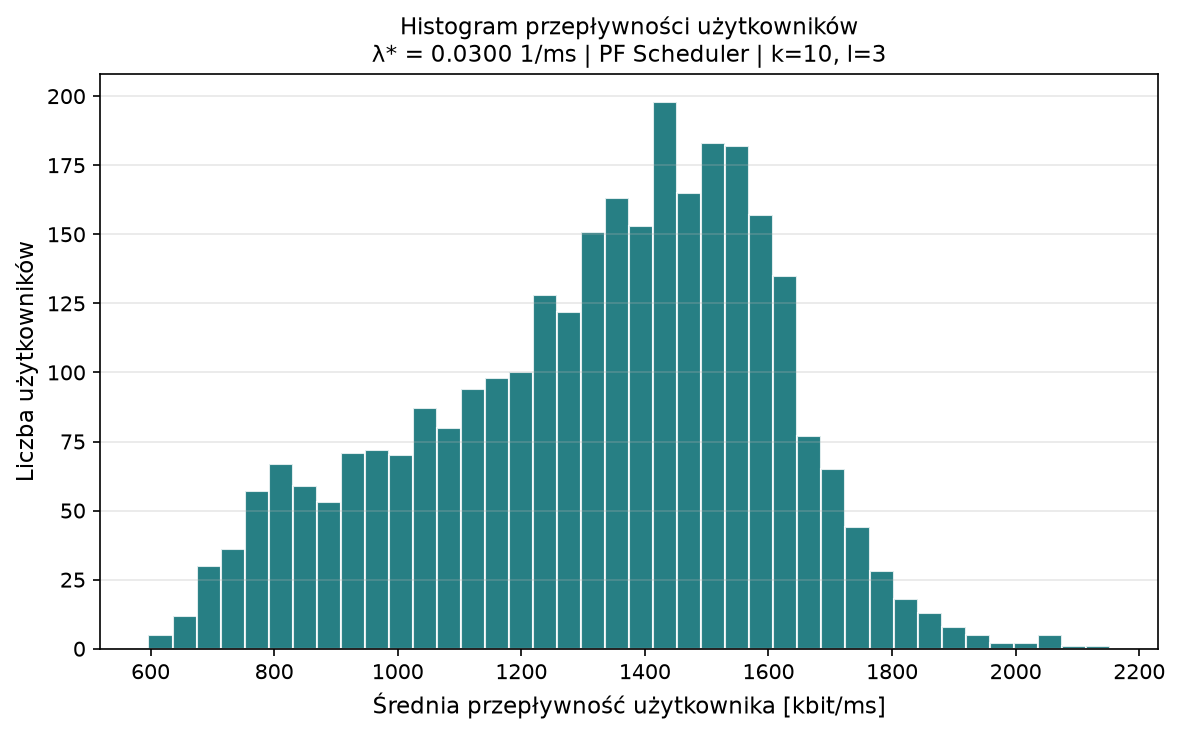
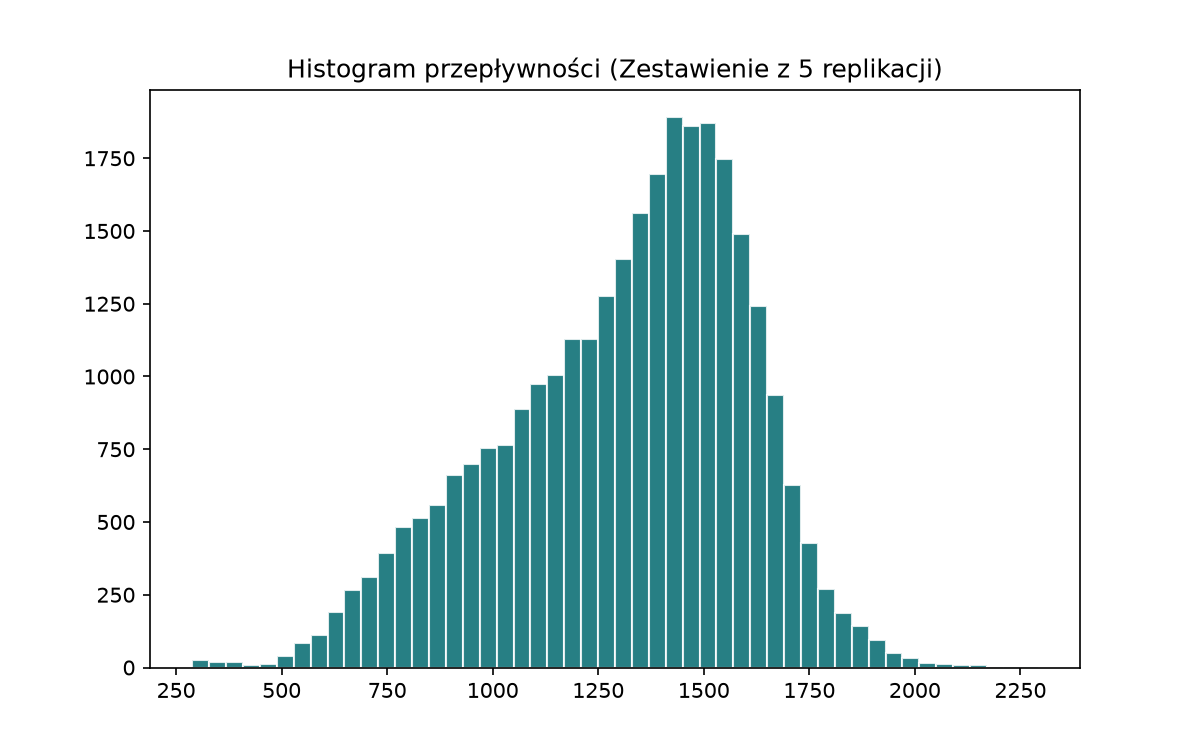
finished product

diff --git a/main.py b/main.py
@@ -1,108 +1,148 @@
 import os
-import random
+import math
 import matplotlib
 
 matplotlib.use("Agg")
 import matplotlib.pyplot as plt
 
-# Importujemy z naszych nowych modułów
 from simulator.main_loop import Simulator
 
-if __name__ == "__main__":
-    SIM_TIME = 100_000  # ms (100 s)
-    MAX_WAIT = 150.0  # ms – kryterium
+def compute_stats(data_list: list) -> tuple:
+    """Zwraca średnią oraz 95% przedział ufności dla listy wartości."""
+    if not data_list:
+        return 0.0, 0.0
+    n = len(data_list)
+    mean = sum(data_list) / n
+    if n <= 1:
+        return mean, 0.0
+    
+    variance = sum((x - mean) ** 2 for x in data_list) / (n - 1)
+    std_dev = math.sqrt(variance)
+    ci95 = 1.96 * (std_dev / math.sqrt(n))
+    return mean, ci95
 
-    # Zakres λ do badania
-    lambdas = [0.001, 0.005, 0.010, 0.020, 0.030, 0.050]
-               
+if __name__ == "__main__":
+    SIM_TIME = 200_000  # ms - zmiejszone na rzecz replikacji (zwiększ w miarę potrzeb)
+    MAX_WAIT = 150.0   # ms
+    REPLICATIONS = 5    # Liczba powtórzeń dla każdego punktu (do error barów)
+
+    lambdas = [0.001, 0.005, 0.010, 0.020, 0.030]
 
     results = []
-    sim = Simulator()
-
-    print(
-        f"{'λ [1/ms]':>10} | {'avg_wait [ms]':>14} | {'sys_tp [kbit/ms]':>17} | {'usr_tp [kbit/ms]':>17} | {'ukończeni':>10}")
-    print("-" * 85)
+    
+    print(f"{'λ [1/ms]':>10} | {'avg_wait [ms]':>14} ±CI | {'sys_tp [k/ms]':>14} ±CI | {'ukończeni (śr)':>14}")
+    print("-" * 80)
 
     for lam in lambdas:
-        # Zastąpienie np.random.seed standardowym
-        random.seed(1)
-        stats = sim.run(lam=lam, max_time=SIM_TIME)
-        results.append(stats)
+        wait_reps = []
+        sys_tp_reps = []
+        usr_tp_reps = []
+        completed_reps = []
+        all_user_tps_agg = [] # Do histogramu (łączymy z najlepszej lambdy)
 
-        # Wyświetlanie tabelaryczne z oznaczaniem wartości spełniających warunek
-        marker = " ✔" if stats["avg_wait_ms"] <= MAX_WAIT and stats["avg_wait_ms"] > 0 else ""
-        print(f"{lam:10.4f} | {stats['avg_wait_ms']:14.2f} | "
-              f"{stats['system_tp_kbps']:17.4f} | "
-              f"{stats['avg_user_tp_kbps']:17.4f} | "
-              f"{stats['num_completed']:10d}{marker}")
+        for rep in range(REPLICATIONS):
+            # Dynamiczne, unikalne ziarno dla każdej replikacji
+            seed = 2137 + int(lam * 1000) + rep * 13 
+            sim = Simulator(seed)
+            stats = sim.run(lam=lam, max_time=SIM_TIME)
+            
+            wait_reps.append(stats["avg_wait_ms"])
+            sys_tp_reps.append(stats["system_tp_kbps"])
+            usr_tp_reps.append(stats["avg_user_tp_kbps"])
+            completed_reps.append(stats["num_completed"])
+            all_user_tps_agg.extend(stats["user_tps"])
 
-    # Szukanie optymalnej λ (maksymalnej, ale spełniającej kryterium oczekiwania)
-    valid = [r for r in results if 0 < r["avg_wait_ms"] <= MAX_WAIT]
+        # Agregacja wyników i wyliczanie CI
+        mean_wait, ci_wait = compute_stats(wait_reps)
+        mean_sys_tp, ci_sys_tp = compute_stats(sys_tp_reps)
+        mean_usr_tp, ci_usr_tp = compute_stats(usr_tp_reps)
+        mean_comp = sum(completed_reps) / len(completed_reps)
+
+        results.append({
+            "lambda": lam,
+            "wait_mean": mean_wait, "wait_ci": ci_wait,
+            "sys_tp_mean": mean_sys_tp, "sys_tp_ci": ci_sys_tp,
+            "usr_tp_mean": mean_usr_tp, "usr_tp_ci": ci_usr_tp,
+            "num_completed": int(mean_comp),
+            "all_tps": all_user_tps_agg
+        })
+
+        marker = " ✔" if 0 < mean_wait <= MAX_WAIT else ""
+        print(f"{lam:10.4f} | {mean_wait:10.2f} ±{ci_wait:4.1f} | "
+              f"{mean_sys_tp:10.2f} ±{ci_sys_tp:4.1f} | "
+              f"{int(mean_comp):14d}{marker}")
+
+    # Szukanie optymalnej λ
+    valid = [r for r in results if 0 < r["wait_mean"] <= MAX_WAIT]
+    best = None
     if valid:
         best = max(valid, key=lambda r: r["lambda"])
         print(f"\n╔══════════════════════════════════════════════════════════╗")
         print(f"  Maksymalna λ z avg_wait ≤ {MAX_WAIT} ms:")
         print(f"  λ* = {best['lambda']:.4f} 1/ms")
-        print(f"  Przep. sys.  = {best['system_tp_kbps']:.4f} kbit/ms")
-        print(f"  Przep. usr.  = {best['avg_user_tp_kbps']:.4f} kbit/ms")
-        print(f"  Avg wait     = {best['avg_wait_ms']:.2f} ms")
-        print(f"  Ukończonych  = {best['num_completed']} UE")
+        print(f"  Avg wait     = {best['wait_mean']:.2f} ± {best['wait_ci']:.2f} ms")
         print(f"╚══════════════════════════════════════════════════════════╝")
-    else:
-        print("\n✘  Żadna λ nie spełnia kryterium. Zmniejsz λ lub zwiększ k/l.")
 
-    # Generowanie wykresów przy użyciu matplotlib
     os.makedirs("results", exist_ok=True)
     lam_vals = [r["lambda"] for r in results]
-    wait_vals = [r["avg_wait_ms"] for r in results]
-    sys_tp_vals = [r["system_tp_kbps"] for r in results]
-    usr_tp_vals = [r["avg_user_tp_kbps"] for r in results]
 
-    fig, axes = plt.subplots(1, 2, figsize=(14, 5))
-    fig.suptitle("Symulator LTE – Proportional Fairness (k=10 RB, l=3, ε=0.1)", fontsize=13, fontweight="bold")
-
-    # Wykres 1: Czas oczekiwania w funkcji λ
-    ax1 = axes[0]
-    ax1.plot(lam_vals, wait_vals, "o-", color="#01696f", linewidth=2, markersize=7, label="avg czas oczekiwania")
+    # --- Wykres 1: Czas oczekiwania + Error bars ---
+    fig1, ax1 = plt.subplots(figsize=(8, 5))
+    ax1.errorbar(lam_vals, [r["wait_mean"] for r in results], yerr=[r["wait_ci"] for r in results], 
+                 fmt="o-", color="#01696f", linewidth=2, capsize=4, label="Czas oczekiwania (95% CI)")
     ax1.axhline(MAX_WAIT, color="#a12c7b", linestyle="--", linewidth=1.8, label=f"Kryterium: {MAX_WAIT} ms")
-    if valid:
+    if best:
         ax1.axvline(best["lambda"], color="#da7101", linestyle=":", linewidth=1.5, label=f"λ* = {best['lambda']:.4f}")
+    
     ax1.set_xlabel("λ [1/ms]", fontsize=11)
     ax1.set_ylabel("Średni czas oczekiwania [ms]", fontsize=11)
-    ax1.set_title("Czas oczekiwania vs λ", fontsize=12)
-    ax1.legend(fontsize=9)
+    ax1.set_title("Czas oczekiwania vs λ (z przedziałami ufności)", fontsize=12)
+    ax1.legend()
     ax1.grid(True, alpha=0.3)
-
-    # Wykres 2: Przepływność systemu w funkcji λ
-    ax2 = axes[1]
-    ln1, = ax2.plot(lam_vals, sys_tp_vals, "s-", color="#006494", linewidth=2, markersize=7,
-                    label="Przep. systemu [kbit/ms]")
-    ax2r = ax2.twinx()
-    ln2, = ax2r.plot(lam_vals, usr_tp_vals, "^--", color="#da7101", linewidth=1.8, markersize=7,
-                     label="Przep. użytkownika [kbit/ms]")
-    ax2.set_xlabel("λ [1/ms]", fontsize=11)
-    ax2.set_ylabel("Przepływność systemu [kbit/ms]", color="#006494", fontsize=11)
-    ax2r.set_ylabel("Przep. użytkownika [kbit/ms]", color="#da7101", fontsize=11)
-    ax2.set_title("Przepływność vs λ", fontsize=12)
-    ax2.legend(handles=[ln1, ln2], fontsize=9, loc="upper left")
-    ax2.grid(True, alpha=0.3)
-
     plt.tight_layout()
-    plt.savefig("results/throughput_wait_vs_lambda.png", dpi=150, bbox_inches="tight")
+    plt.savefig("results/wait_vs_lambda_ci.png", dpi=150)
     plt.close()
-    print("\nWykres 1 zapisany: results/throughput_wait_vs_lambda.png")
 
-    # Histogram przepływności dla optymalnej lambdy
-    if valid and best["user_tps"]:
-        fig2, ax3 = plt.subplots(figsize=(8, 5))
-        ax3.hist(best["user_tps"], bins=40, color="#01696f", edgecolor="white", alpha=0.85)
-        ax3.set_xlabel("Średnia przepływność użytkownika [kbit/ms]", fontsize=11)
-        ax3.set_ylabel("Liczba użytkowników", fontsize=11)
-        ax3.set_title(
-            f"Histogram przepływności użytkowników\nλ* = {best['lambda']:.4f} 1/ms | PF Scheduler | k=10, l=3",
-            fontsize=11)
-        ax3.grid(True, alpha=0.3, axis="y")
+    # --- Wykres 2: Przepływność + Error bars ---
+    fig2, ax2 = plt.subplots(figsize=(8, 5))
+    ax2.errorbar(lam_vals, [r["sys_tp_mean"] for r in results], yerr=[r["sys_tp_ci"] for r in results],
+                 fmt="s-", color="#006494", capsize=4, label="System [kbit/ms]")
+    ax2.errorbar(lam_vals, [r["usr_tp_mean"] for r in results], yerr=[r["usr_tp_ci"] for r in results],
+                 fmt="^-", color="#da7101", capsize=4, label="Użytkownicy [kbit/ms]")
+    
+    ax2.set_xlabel("λ [1/ms]")
+    ax2.set_ylabel("Przepływność")
+    ax2.set_title("Przepływność vs λ (z przedziałami ufności)")
+    ax2.legend()
+    ax2.grid(True, alpha=0.3)
+    plt.tight_layout()
+    plt.savefig("results/throughput_vs_lambda_ci.png", dpi=150)
+    plt.close()
+
+    # --- Wykres 3: Faza Początkowa (Transient Phase) ---
+    if best:
+        print("\nGenerowanie wykresu fazy początkowej dla λ*...")
+        # Robimy pojedynczy dłuższy run, aby zapisać zmienność stanu w czasie
+        sim_transient = Simulator(seed=9999)
+        stats_transient = sim_transient.run(lam=best["lambda"], max_time=SIM_TIME, track_transient=True)
+        t_data = stats_transient["transient_data"]
+
+        fig3, ax3 = plt.subplots(figsize=(9, 4))
+        ax3.plot([t / 1000.0 for t in t_data["time"]], t_data["queue_length"], color="#a12c7b", alpha=0.85)
+        ax3.set_xlabel("Czas symulacji [s]")
+        ax3.set_ylabel("Liczba aktywnych UE (długość kolejki)")
+        ax3.set_title(f"Wykres fazy przejściowej (Warm-up) dla λ = {best['lambda']:.4f}")
+        ax3.grid(True, alpha=0.3)
         plt.tight_layout()
-        plt.savefig("results/histogram_user_throughput.png", dpi=150, bbox_inches="tight")
+        plt.savefig("results/transient_phase.png", dpi=150)
         plt.close()
-        print("Wykres 2 zapisany: results/histogram_user_throughput.png")
+        
+        # Histogram dla optymalnej
+        if best["all_tps"]:
+            fig4, ax4 = plt.subplots(figsize=(8, 5))
+            ax4.hist(best["all_tps"], bins=50, color="#01696f", edgecolor="white", alpha=0.85)
+            ax4.set_title(f"Histogram przepływności (Zestawienie z {REPLICATIONS} replikacji)")
+            plt.savefig("results/histogram_user_throughput.png", dpi=150)
+            plt.close()
+
+    print("\nWszystkie wykresy zostały wygenerowane w folderze 'results/'.")

diff --git a/simulator/main_loop.py b/simulator/main_loop.py
@@ -4,45 +4,55 @@ import random
 from environment.enodeb import eNodeB
 
 class Simulator:
-    def __init__(self):
-        self.network = eNodeB()
+    def __init__(self, seed: int):
+        self.base_seed = seed
+        self.rng_arrival = random.Random(seed + 2)
+        self.rng_prop_tau = random.Random(seed + 3)
+        self.network = eNodeB(seed + 10)
         self.event_queue = []
         self.event_counter = itertools.count()
 
     def push_event(self, time: float, event_type: str, args: dict = None):
-        # itertools.count gwarantuje stabilność kolejkowania dla takich samych czasów zdarzeń
         heapq.heappush(self.event_queue, (time, next(self.event_counter), event_type, args))
 
-    def run(self, lam: float, max_time: float) -> dict:
+    def run(self, lam: float, max_time: float, track_transient: bool = False) -> dict:
         self.network.initialize()
         self.event_queue.clear()
         self.event_counter = itertools.count()
 
-        # Pierwsze wejście UE do systemu
-        first_arrival = random.expovariate(lam)
+        first_arrival = self.rng_arrival.expovariate(lam)
         self.push_event(first_arrival, 'arrival', {'lam': lam})
         self.push_event(self.network.S, 'scheduler')
+
+        # Struktura do wykresu fazy początkowej
+        transient_data = {"time": [], "queue_length": []}
+        sample_interval = 1000.0  # Próbkowanie stanu systemu co 1000 ms (1 s)
+        next_sample_time = sample_interval
 
         while self.event_queue:
             time, _, event_type, args = heapq.heappop(self.event_queue)
 
             if time > max_time:
                 break
+            
+            # Próbkowanie długości kolejki w czasie
+            if track_transient and time >= next_sample_time:
+                transient_data["time"].append(time)
+                transient_data["queue_length"].append(len(self.network.active_ues))
+                next_sample_time += sample_interval
 
-            # Early stopping - przerwanie, jeśli system nie nadąża z obsługą (ρ > 1)
-            if len(self.network.active_ues) > 500:
-                print(f" [!] Zatrzymano dla λ={lam:^6.4f}: brak stabilności (zbyt długa kolejka).")
-                break
+            if len(self.network.active_ues) > 1000:
+                # Poluzowane kryterium zatrzymania, by nie przerywać za wcześnie przy badaniu CI
+                pass
 
             if event_type == 'arrival':
                 lam_val = args['lam']
                 ue_id = self.network.add_ue(time)
 
-                inter_arrival = random.expovariate(lam_val)
+                inter_arrival = self.rng_arrival.expovariate(lam_val)
                 self.push_event(time + inter_arrival, 'arrival', {'lam': lam_val})
 
-                # tau ~ Exp(1/10) w Numpy oznacza skalę 10. W module random podajemy 1/skala
-                tau = random.expovariate(1.0 / 10.0)
+                tau = self.rng_prop_tau.expovariate(1.0 / 10.0)
                 self.push_event(time + tau, 'prop_change', {'ue_id': ue_id})
 
             elif event_type == 'scheduler':
@@ -56,12 +66,11 @@ class Simulator:
                 ue_id = args['ue_id']
                 if ue_id in self.network.active_ues:
                     self.network.update_propagation(ue_id)
-                    tau = random.expovariate(1.0 / 10.0)
+                    tau = self.rng_prop_tau.expovariate(1.0 / 10.0)
                     self.push_event(time + tau, 'prop_change', {'ue_id': ue_id})
 
         completed = self.network.completed_ues
         if completed:
-            # Obliczenia bez użycia numpy.mean
             avg_wait = sum(c["wait_time"] for c in completed) / len(completed)
             avg_user_tp = sum(c["avg_tp_kbps"] for c in completed) / len(completed)
             all_user_tps = [c["avg_tp_kbps"] for c in completed]
@@ -79,4 +88,5 @@ class Simulator:
             "avg_user_tp_kbps": avg_user_tp,
             "user_tps": all_user_tps,
             "num_completed": len(completed),
+            "transient_data": transient_data
         }

diff --git a/environment/enodeb.py b/environment/enodeb.py
@@ -7,7 +7,11 @@ class eNodeB:
     S = 1.0
     EPSILON = 0.1
 
-    def __init__(self):
+    def __init__(self, seed: int):
+        self.base_seed = seed
+        # Osobne generatory dla błędów transmisji i propagacji
+        self.rng_error = random.Random(seed)
+        self.rng_prop = random.Random(seed + 1)
         self.initialize()
 
     def initialize(self):
@@ -18,7 +22,9 @@ class eNodeB:
 
     def add_ue(self, arrival_time: float) -> int:
         self.no_users += 1
-        ue = UserEquipment(self.no_users, self.K, arrival_time)
+        # Deterministyczne ziarno dla każdego nowego UE oparte na ID
+        ue_seed = self.base_seed + 1000 + self.no_users 
+        ue = UserEquipment(self.no_users, self.K, arrival_time, ue_seed)
         self.active_ues[self.no_users] = ue
         return self.no_users
 
@@ -43,7 +49,6 @@ class eNodeB:
         alloc_counts = {ue.ue_id: 0 for ue in ues}
         allocated_rates = {ue.ue_id: 0.0 for ue in ues}
 
-        # Przydział zasobów (Algorytm Proportional Fairness)
         for k in range(self.K):
             best_ue_id = None
             best_score = -1.0
@@ -68,8 +73,8 @@ class eNodeB:
             bits_sent = rate * (self.S / 1000.0)
             ue.total_bits_received += bits_sent
 
-            # Symulacja błędów transmisji
-            if random.random() >= self.EPSILON:
+            # Błędy wyliczane z obiektowego generatora
+            if self.rng_error.random() >= self.EPSILON:
                 ue.data_received += bits_sent
                 self.total_system_bits += bits_sent
                 if ue.data_received >= ue.data_total:
@@ -79,4 +84,4 @@ class eNodeB:
 
     def update_propagation(self, ue_id: int):
         if ue_id in self.active_ues:
-            self.active_ues[ue_id].rb_rates = [random.uniform(20.0, 800.0) for _ in range(self.K)]
+            self.active_ues[ue_id].rb_rates = [self.rng_prop.uniform(20.0, 800.0) for _ in range(self.K)]

diff --git a/environment/ue.py b/environment/ue.py
@@ -1,15 +1,18 @@
 import random
 
 class UserEquipment:
-    def __init__(self, ue_id: int, num_rb: int, arrival_time: float):
+    def __init__(self, ue_id: int, num_rb: int, arrival_time: float, seed: int):
         self.ue_id = ue_id
         self.arrival_time = arrival_time
-        # random.randint(1, 10) w przeciwieństwie do numpy zwraca wartości z przedziału domkniętego [1, 10]
-        self.data_total = float(random.randint(1, 10) * 25)
+        
+        # Własna instancja generatora dla tego konkretnego użytkownika
+        self.rng = random.Random(seed)
+        
+        self.data_total = float(self.rng.randint(1, 10) * 25)
         self.data_received = 0.0
 
-        # Inicjalizacja stawek dla każdego bloku zasobów używając pythonowskiego random
-        self.rb_rates = [random.uniform(20.0, 800.0) for _ in range(num_rb)]
+        # Inicjalizacja stawek
+        self.rb_rates = [self.rng.uniform(20.0, 800.0) for _ in range(num_rb)]
 
         self.total_bits_received = 0.0
         self._arrival_time = arrival_time
@@ -17,5 +20,5 @@ class UserEquipment:
     def get_avg_throughput(self, current_time: float) -> float:
         elapsed = current_time - self._arrival_time
         if elapsed <= 0 or self.total_bits_received == 0:
-            return 1e-9  # Bardzo mała wartość, by nadać wysoki priorytet na start
+            return 1e-9  
         return (self.total_bits_received / elapsed) * 1000.0